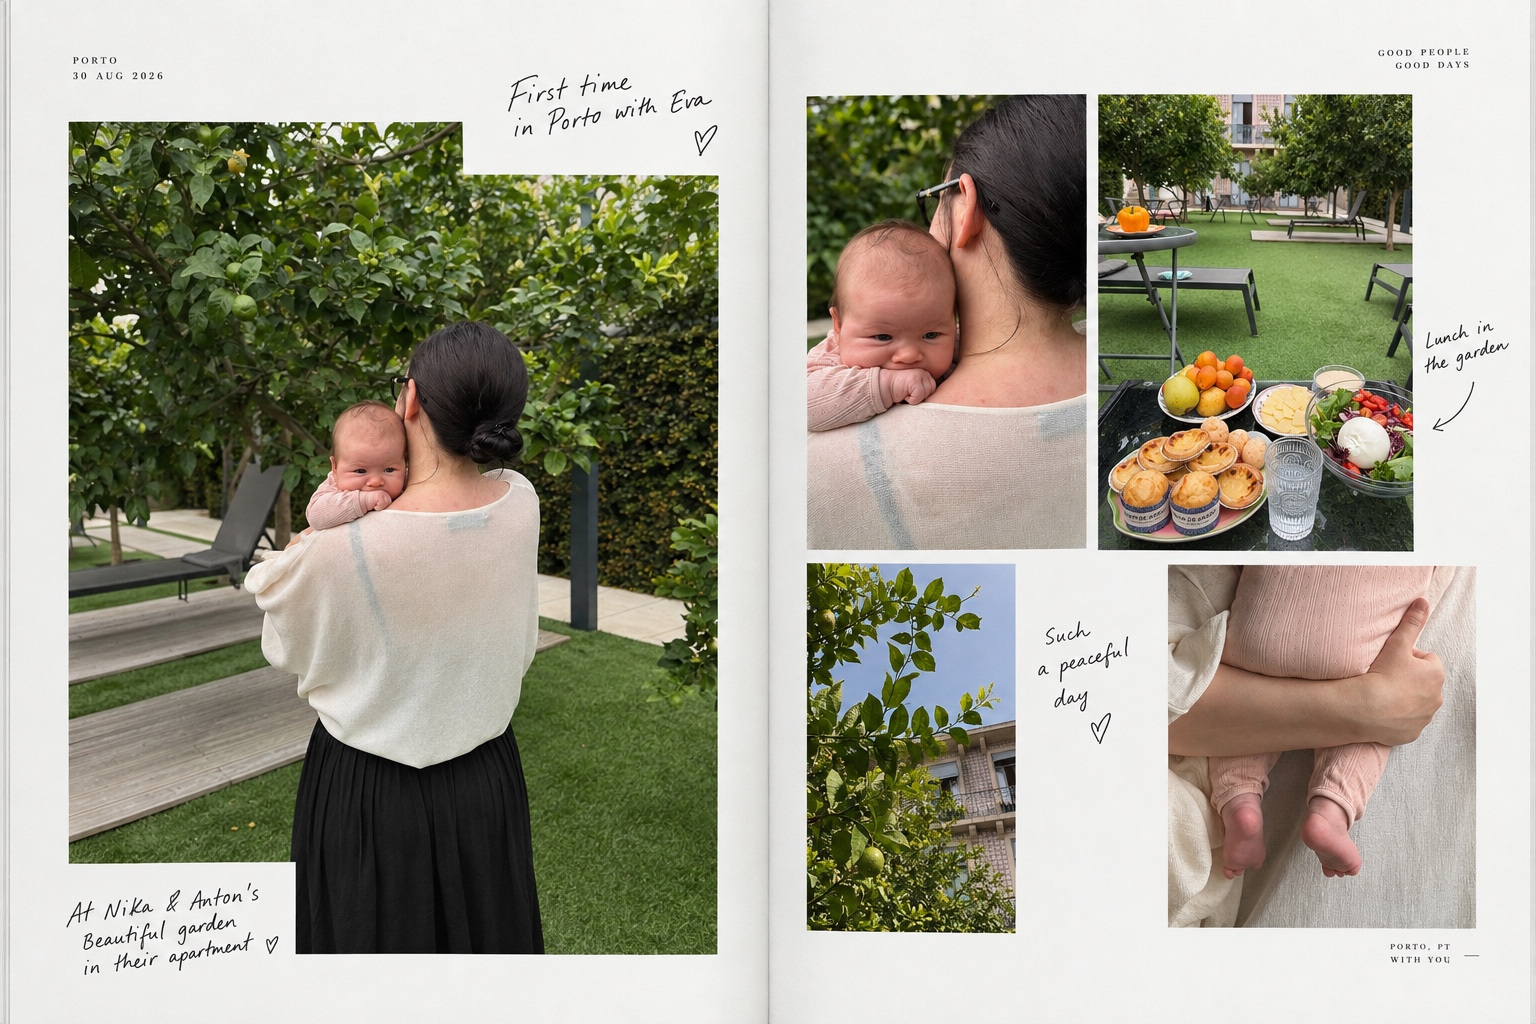
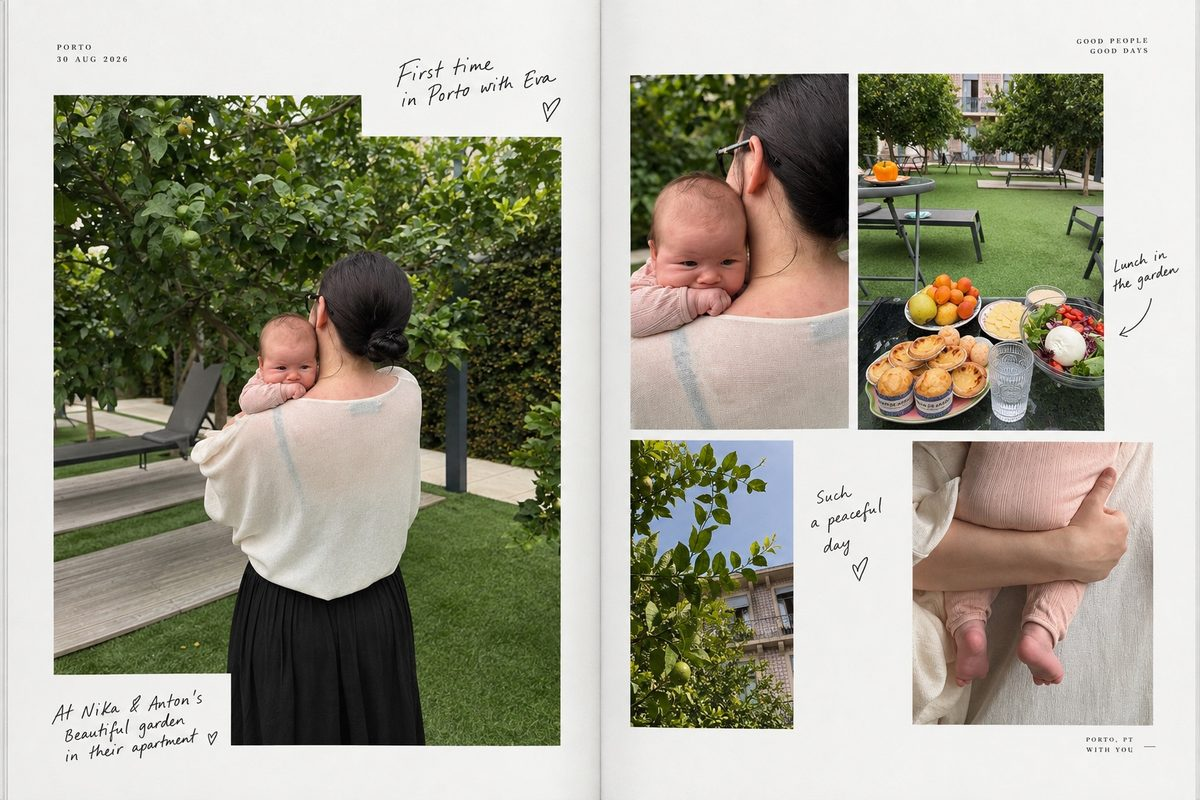
perf: compress images — save ~2.3MB total page weight
Convert before-after.png (980KB→134KB) and make-it-yours.png (771KB→100KB)
to JPEG. Resize park/garden spreads (599KB→198KB, 575KB→183KB).

Changed region(s): [[0.5858, 0.875, 0.6167, 0.9062], [0.555, 0.5625, 0.5858, 0.5938], [0.1233, 0.875, 0.1542, 0.9062]]

diff --git a/index.html b/index.html
@@ -146,10 +146,10 @@
           <p>Review it and tell us what you'd like changed. We revise it until it feels right.</p>
         </div>
         <div class="step-visual step-visual-wide">
-          <img src="assets/before-after.png" alt="From camera roll to a beautifully designed photo book" width="1200" height="880" title="Before and after: camera roll to photo book" loading="lazy" />
+          <img src="assets/before-after.jpg" alt="From camera roll to a beautifully designed photo book" width="1200" height="880" title="Before and after: camera roll to photo book" loading="lazy" />
         </div>
         <div class="step-visual">
-          <img src="assets/make-it-yours.png" alt="Phone showing Remeet chat with your designed book" width="1200" height="1666" title="Revise your book via chat" loading="lazy" />
+          <img src="assets/make-it-yours.jpg" alt="Phone showing Remeet chat with your designed book" width="900" height="1250" title="Revise your book via chat" loading="lazy" />
         </div>
       </div>
     </section>
